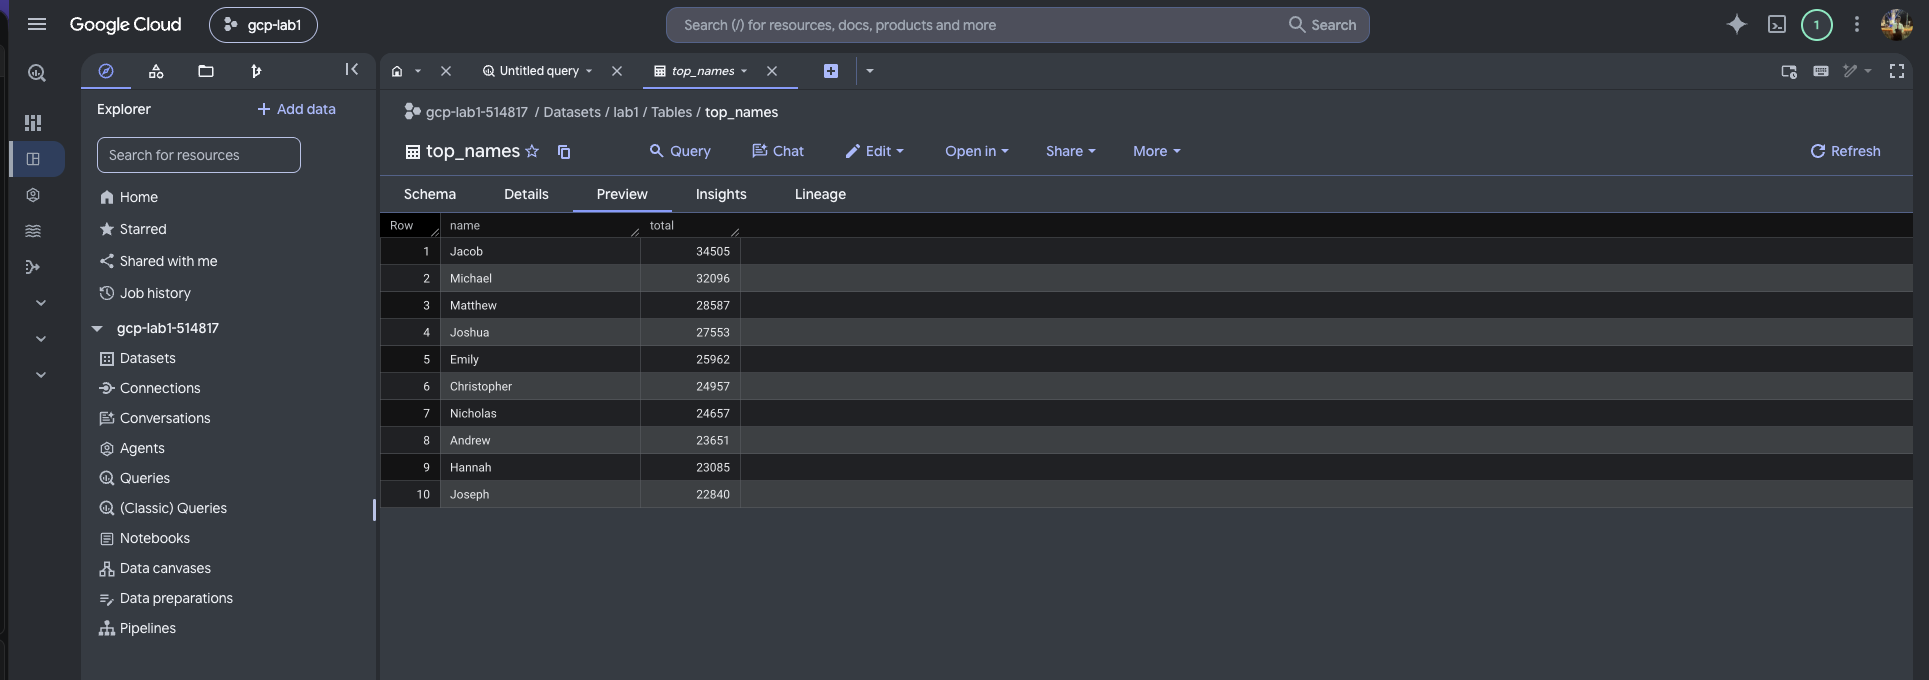
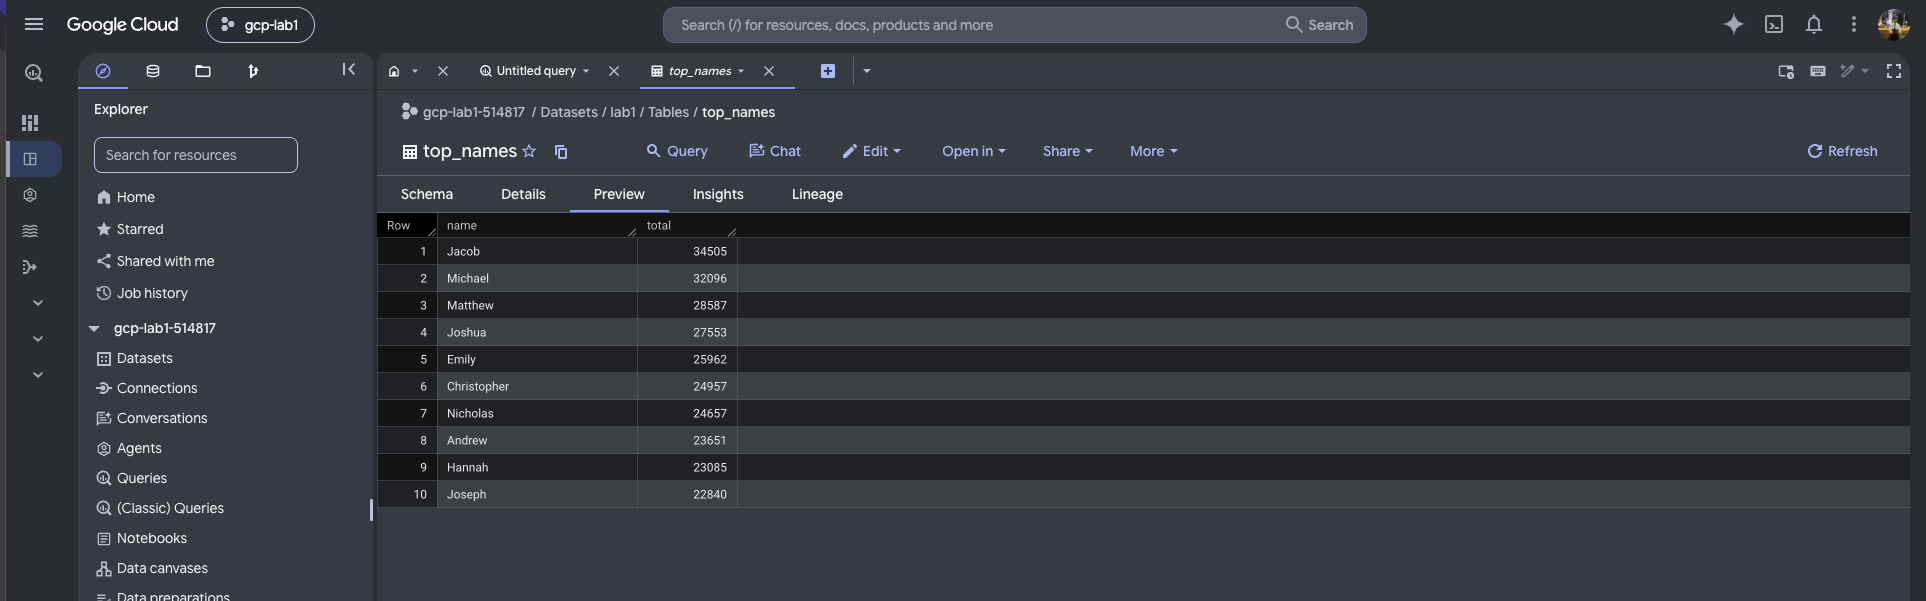
Updated Readme

diff --git a/Labs/GCP_Labs/Cloud_Composer_Labs/Lab1/README.md b/Labs/GCP_Labs/Cloud_Composer_Labs/Lab1/README.md
@@ -1,193 +1,242 @@
-# GCP CLoud Composer Lab 1: Top US Baby Names with BigQuery
-
+# GCP Cloud Composer Lab 1: Top US Baby Names with BigQuery
+ 
 ## Overview
-
-This lab uses Apache Airflow, running locally on your own computer, to orchestrate a small data pipeline on Google BigQuery. The pipeline queries a public BigQuery dataset for the 10 most popular US baby names of the year 2000, saves the results as a CSV in the lab folder, reads the CSV back, and loads the same results into a table in your own BigQuery project.
-
+ 
+This lab uses Google Cloud Composer, Google's managed Apache Airflow service, to orchestrate a small data pipeline on Google BigQuery. The pipeline queries a public BigQuery dataset for the 10 most popular US baby names of the year 2000, saves the results as a CSV in the Composer environment's Cloud Storage bucket, reads the CSV back, and loads the same results into a table in your own BigQuery project.
+ 
 The data is the US baby names public dataset, `bigquery-public-data.usa_names.usa_1910_current`. It was created by the Social Security Administration from Social Security card applications and counts how many babies received each name, by state, sex and year, starting in 1910. To protect privacy, only names with at least 5 occurrences are included. Each row has five columns: `state`, `gender`, `year`, `name` and `number`.
-
+ 
 The query keeps only births from 2000, adds up `number` across all states and both sexes for each name, and returns the 10 names with the highest totals.
-
-Everything runs for free. Airflow runs on local machine, and BigQuery is used through the BigQuery sandbox.
-
+ 
 The pipeline is defined as an Airflow DAG named `cloud_composer_lab1` with four tasks. After the query, the pipeline forks into two branches that run in parallel:
-
+ 
 ```
 query_bigquery >> save_csv >> read_csv
 query_bigquery >> save_to_bigquery
 ```
-
+ 
 | Task | Function | What it does |
 |---|---|---|
 | `query_bigquery` | `query_bigquery()` | Runs the SQL query on the public dataset and returns the 10 rows as a list of `(name, total)` pairs |
-| `save_csv` | `save_csv(rows)` | Writes the rows to `top_names.csv` in the lab folder, with a `name,total` header |
+| `save_csv` | `save_csv(rows)` | Writes the rows to `top_names.csv` in the `data/` folder of the Composer bucket, with a `name,total` header |
 | `read_csv` | `read_csv()` | Reads `top_names.csv` back and prints it to the task log |
 | `save_to_bigquery` | `save_to_bigquery(rows)` | Creates the dataset `lab1` in your project if it doesn't exist, then loads the rows into the table `lab1.top_names`, replacing any previous contents |
-
-The query results are passed from `query_bigquery` to the other tasks through Airflow's XCom. The DAG uses the `@once` schedule with `is_paused_upon_creation=False`, so it runs automatically one time as soon as Airflow finds it, and after that only when you trigger it.
-
+ 
+The query results are passed from `query_bigquery` to the other tasks through Airflow's XCom. The DAG uses the `@once` schedule with `is_paused_upon_creation=False`, so it runs automatically one time as soon as Composer loads it, and after that only when you trigger it.
+ 
+Composer mounts its bucket on every Airflow worker at `/home/airflow/gcs/`, so the DAG writes to `gs://<bucket>/data/` as if it were a local folder (`/home/airflow/gcs/data/`). The DAG authenticates to BigQuery with the environment's service account, so the code contains no keys or logins.
+ 
+The environment used for this lab:
+ 
+| Setting | Value |
+|---|---|
+| Name | `composer-lab1` |
+| Location | `us-east4` |
+| Service version | Composer 3 |
+| Airflow version | 2.11.1 |
+| Size | Small, standard resilience |
+| Service account | `composer-lab1-sa` |
+ 
 ## Project structure
-
+ 
 ```
 Lab1/
 ├── airflow_lab1.py     # DAG definition and pipeline tasks
-├── top_names.csv       # results 
-├── .airflowignore      # tells Airflow to skip the venv
 ├── images/             # screenshots used in this README
 └── README.md
 ```
-
+ 
+In the Composer bucket after a run:
+ 
+```
+gs://<composer-bucket>/
+├── dags/
+│   └── airflow_lab1.py   # uploaded DAG
+└── data/
+    └── top_names.csv     # results (written by save_csv)
+```
+ 
 `top_names.csv` and the BigQuery table are regenerated on every run.
-
+ 
 ## Prerequisites
-
-- A Python virtual environment with Airflow 3.x and the BigQuery client library installed. This lab uses one called `airflow-venv`. To create one:
-  ```bash
-  python3 -m venv airflow-venv
-  source airflow-venv/bin/activate
-  pip install apache-airflow google-cloud-bigquery
-  ```
-- The Google Cloud CLI (`gcloud`), installed from cloud.google.com/sdk
-- A Google account with a BigQuery sandbox project
-- Port 8080 free on your machine
-- Mac or Linux. On Windows, run everything inside WSL.
-
+ 
+- A Google Cloud project with billing enabled. Composer is not part of the BigQuery sandbox; new accounts can use the Google Cloud free trial credit.
+- Owner access to the project, or permission to create Composer environments and grant IAM roles
 ## Setup
-
-Run all commands from the lab folder (the folder containing `airflow_lab1.py`).
-
-**1. Create a BigQuery sandbox project**
-
-Go to console.cloud.google.com/bigquery, sign in with your Google account and create a project when prompted. Copy the project ID from the project picker at the top of the page.
-
-**2. Set your project ID in the DAG**
-
+ 
+All commands are run in **Cloud Shell**, so nothing needs to be installed locally.
+ 
+**1. Set the project and enable the APIs**
+ 
+```bash
+gcloud config set project your-project-id
+gcloud services enable composer.googleapis.com iamcredentials.googleapis.com bigquery.googleapis.com
+```
+ 
+**2. Create a service account for the environment**
+ 
+```bash
+PROJECT=your-project-id
+SA=composer-lab1-sa@$PROJECT.iam.gserviceaccount.com
+gcloud iam service-accounts create composer-lab1-sa --display-name="Composer lab service account"
+for ROLE in roles/composer.worker roles/bigquery.jobUser roles/bigquery.dataEditor; do
+  gcloud projects add-iam-policy-binding $PROJECT --member="serviceAccount:$SA" --role=$ROLE
+done
+```
+ 
+| Role | Why it's needed |
+|---|---|
+| Composer Worker | Lets the account run the Composer environment |
+| BigQuery Job User | Lets the DAG run query and load jobs |
+| BigQuery Data Editor | Lets the DAG create the `lab1` dataset and write the table |
+ 
+**3. Let Composer use the service account**
+ 
+```bash
+NUMBER=$(gcloud projects describe $PROJECT --format="value(projectNumber)")
+gcloud iam service-accounts add-iam-policy-binding $SA \
+  --member="serviceAccount:service-$NUMBER@cloudcomposer-accounts.iam.gserviceaccount.com" \
+  --role=roles/composer.ServiceAgentV2Ext
+```
+ 
+**4. Create the environment** (takes about 20–30 minutes)
+ 
+```bash
+gcloud composer environments create composer-lab1 \
+  --location us-east4 \
+  --image-version composer-3-airflow-2 \
+  --environment-size small \
+  --service-account $SA
+```
+ 
+**5. Set your project ID in the DAG**
+ 
 In `airflow_lab1.py`, set `PROJECT` to your project ID:
-
+ 
 ```python
 PROJECT = "your-project-id"
 ```
-
-**3. Let your computer access BigQuery**
-
-```bash
-gcloud auth application-default login
-```
-
-Sign in with the same Google account that owns the project. This only needs to be done once per computer.
-
-**4. Skip the venv when loading DAGs** (only if `airflow-venv` is inside the lab folder)
-
-```bash
-echo "airflow-venv" > .airflowignore
-```
-
-Without this, Airflow tries to load every Python file inside the venv as a DAG and shows a long list of import errors.
-
+ 
 ## Running the pipeline
-
-**1. Start Airflow**
-
-```bash
-source airflow-venv/bin/activate
-export AIRFLOW__CORE__LOAD_EXAMPLES=False
-export AIRFLOW__CORE__DAGS_FOLDER="$(pwd)"
-export AIRFLOW__CORE__SIMPLE_AUTH_MANAGER_ALL_ADMINS=True
-airflow standalone
-```
-
-The first line activates the venv. The `export` lines hide Airflow's example DAGs, point Airflow at the lab folder, and turn off the login screen, which is safe because Airflow only runs on your computer. Leave this terminal running. The first start takes a minute while Airflow sets up its database.
-
-**2. Open the UI**
-
-Go to http://localhost:8080.
-
+ 
+**1. Upload the DAG**
+ 
+In the Google Cloud console, go to **Composer** and click **DAGs** in the **DAGs folder** column for `composer-lab1`. This opens the `dags/` folder of the environment's bucket. Click **Upload** → **Upload files** and select `airflow_lab1.py`.
+ 
+**2. Open the Airflow UI**
+ 
+Click **Airflow** in the **Airflow webserver** column for `composer-lab1`.
+ 
 **3. Watch the DAG run**
-
-Within a minute or so, `cloud_composer_lab1` appears in the DAG list and runs once on its own. To run it again later, click ▶ (Trigger).
-
-**4. Stop Airflow when finished**
-
-Press Ctrl+C in the terminal running Airflow.
-
+ 
+Within a few minutes, `cloud_composer_lab1` appears in the DAG list and runs once on its own. To run it again later, click ▶ (Trigger).
+ 
 ## Validating the results in Airflow
-
+ 
 **Check the run succeeded**
-
+ 
 Click `cloud_composer_lab1` to open its page. The grid shows one column per run and one row per task. A successful run has four green squares; red means a task failed.
-
+ 
 **Check the task graph**
-
+ 
 Switch to the **Graph** view. You should see `query_bigquery` on the left, forking into `save_csv` → `read_csv` on one branch and `save_to_bigquery` on the other, all with a green border. Click any task, then **Logs**, to see its output.
-
+ 
 **Check the query**
-
+ 
 Click `query_bigquery` → **XCom**. The `return_value` is the list of 10 `[name, total]` pairs, sorted from the most popular name down.
-
+ 
 **Check the CSV**
-
-Open the logs for `save_csv`. It prints the full path of the file it wrote:
-
+ 
+Open the logs for `save_csv`:
+ 
 ```
-Saved /path/to/Lab1/top_names.csv
+Saved /home/airflow/gcs/data/top_names.csv
 ```
-
+ 
 Then open the logs for `read_csv`, which prints the contents of the file: a `name,total` header followed by the 10 names and their totals.
-
+ 
 **Check the BigQuery load**
-
+ 
 Open the logs for `save_to_bigquery`:
-
+ 
 ```
 Saved 10 rows to your-project-id.lab1.top_names
 ```
-
-## Validating the results in BigQuery
-
-Go to console.cloud.google.com/bigquery with your project selected.
-
-**Check the table**
-
-In the **Explorer** panel, open your project → `lab1` → `top_names`. The **Schema** tab shows two columns, `name` (STRING) and `total` (INTEGER), and **Preview** shows the 10 rows. You can also query it:
-
+ 
+## Validating the results in Google Cloud
+ 
+**Check the CSV in Cloud Storage**
+ 
+Open the environment's DAGs folder, go up one level to the bucket, and open `data/`. `top_names.csv` is there; click it to view or download it.
+ 
+**Check the table in BigQuery**
+ 
+In **BigQuery**, open your project → `lab1` → `top_names` in the **Explorer** panel. The **Schema** tab shows two columns, `name` (STRING) and `total` (INTEGER), and **Preview** shows the 10 rows. You can also query it:
+ 
 ```sql
 SELECT * FROM `your-project-id.lab1.top_names` ORDER BY total DESC
 ```
-
-The results should match `top_names.csv` exactly.
-
+ 
+The results match `top_names.csv` exactly. This run produced:
+ 
+| Rank | Name | Total |
+|---|---|---|
+| 1 | Jacob | 34,505 |
+| 2 | Michael | 32,096 |
+| 3 | Matthew | 28,587 |
+| 4 | Joshua | 27,553 |
+| 5 | Emily | 25,962 |
+| 6 | Christopher | 24,957 |
+| 7 | Nicholas | 24,657 |
+| 8 | Andrew | 23,651 |
+| 9 | Hannah | 23,085 |
+| 10 | Joseph | 22,840 |
+ 
+Emily and Hannah are the only girls' names in the top 10. The totals are slightly lower than the SSA's national figures because the dataset leaves out names with fewer than 5 babies in a given state.
+ 
 **Check the jobs**
-
-Open **Job history** → **Personal history**. Each run of the DAG adds two jobs: a query job from `query_bigquery` and a load job from `save_to_bigquery`.
-
+ 
+Open **Job history** → **Project history**. Each run of the DAG adds two jobs, run by `composer-lab1-sa`: a query job from `query_bigquery` and a load job from `save_to_bigquery`.
+ 
+## Cleanup
+ 
+Composer bills for every hour the environment exists, even when no DAGs are running, so delete it once.
+ 
+**1. Delete the environment** (takes several minutes)
+ 
+```bash
+gcloud composer environments delete composer-lab1 --location us-east4
+```
+ 
+**2. Delete the bucket**
+ 
+Deleting the environment does not delete its bucket. In **Cloud Storage** → **Buckets**, delete the bucket whose name starts with `us-east4-composer-lab1`.
+ 
+ 
 ## Notes
-
-- Because the project uses the BigQuery sandbox, the `top_names` table is deleted automatically after 60 days. The next run recreates it.
-- `@once` only runs automatically the first time Airflow sees the DAG. Use ▶ (Trigger) for every run after that.
-- If `query_bigquery` or `save_to_bigquery` fails, check that `PROJECT` matches your project ID and that `gcloud auth application-default login` used the account that owns it.
-
+ 
+- `@once` only runs automatically the first time Composer sees the DAG. Use ▶ (Trigger) for every run after that.
+- If `query_bigquery` or `save_to_bigquery` fails with a permission error, check that `composer-lab1-sa` has the BigQuery Job User and BigQuery Data Editor roles. IAM changes can take a few minutes to apply, and each task retries once after 2 minutes.
+- New DAG files can take a few minutes to appear in the Airflow UI after upload.
 ## Screenshots
-
-**DAG run grid**: all four tasks succeeded
-
-![DAG run grid](images/dag_grid.png)
-
-**Task graph**: the pipeline forks into the CSV branch and the BigQuery branch
-
+ 
+**Composer environment**: `composer-lab1` running in `us-east4` on Composer 3 with Airflow 2.11.1, with links to its Airflow UI, DAG list, logs and DAGs folder
+ 
+![Composer environment](images/composer_environment.png)
+ 
+**DAG run graph**: all four tasks succeeded
+ 
 ![Task graph](images/dag_graph.png)
-
+ 
 **Query results**: XCom of `query_bigquery`
-
+ 
 ![Query XCom](images/query_xcom.png)
-
-**CSV contents**: log of `read_csv`
-
-![read_csv log](images/read_csv_log.png)
-
-**BigQuery load**: log of `save_to_bigquery`
-
-![save_to_bigquery log](images/save_to_bigquery_log.png)
-
-**BigQuery table**: preview of `lab1.top_names` in the console
-
+ 
+**CSV in Cloud Storage**: `top_names.csv` (147 B) written by `save_csv` to the `data/` folder of the environment's bucket, `us-east4-composer-lab1-30de0096-bucket`
+ 
+![CSV in bucket](images/bucket_csv.png)
+ 
+**BigQuery table**: preview of `gcp-lab1-514817.lab1.top_names`, loaded by `save_to_bigquery`, showing the 10 most popular names of 2000
+ 
 ![BigQuery table preview](images/bigquery_table.png)
+ 
